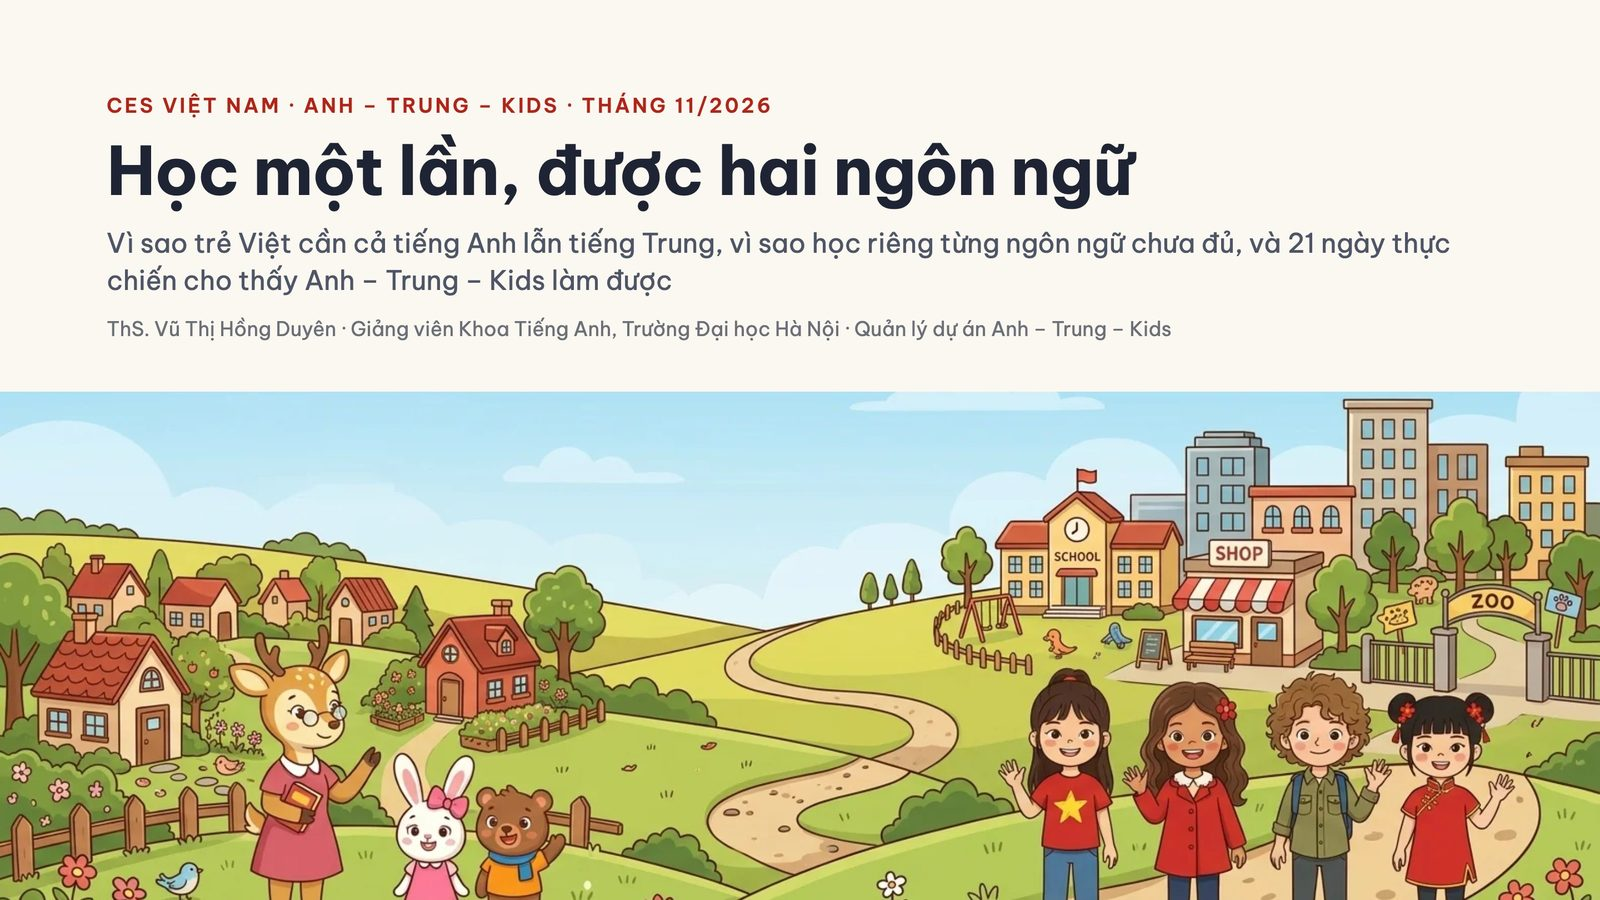
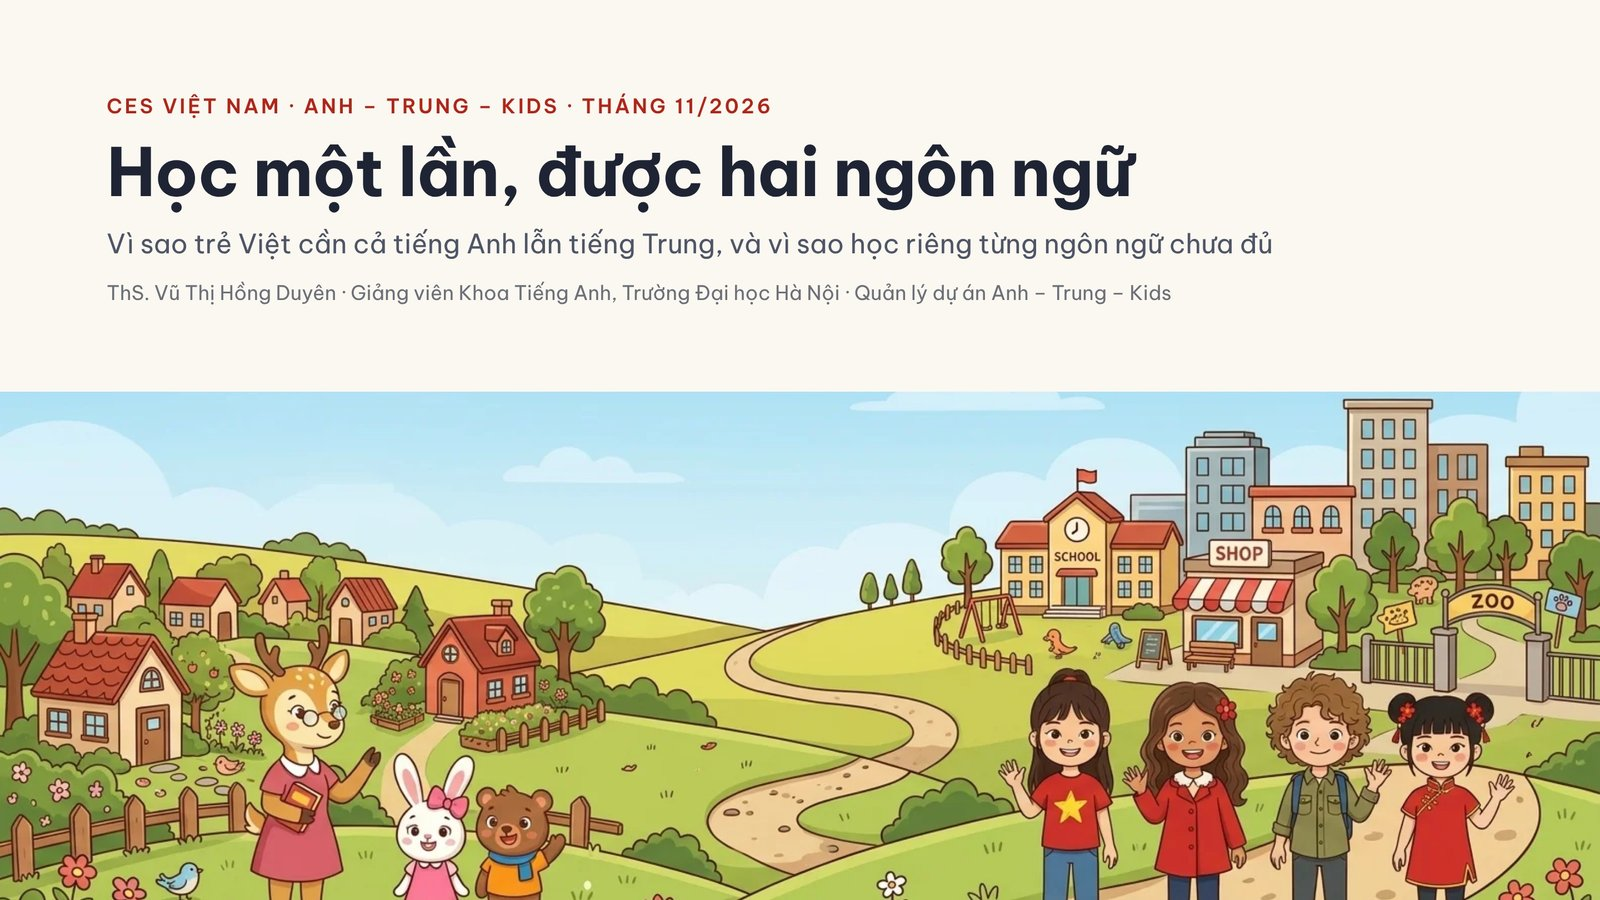
Trình chiếu: bỏ câu quảng cáo ở slide bìa
Claude-Session: https://claude.ai/code/session_018HVPnHq8WSkEhSwULw7xUL

diff --git a/trinh-chieu/tc.js b/trinh-chieu/tc.js
@@ -60,7 +60,7 @@ function tcSequence() {
   return seq;
 }
 function tcPoll(id) { return TC_POLLS.find(p => p.id === id); }
-function tcImg(n) { return 'anh/s' + String(n).padStart(2, '0') + '.jpg'; }
+function tcImg(n) { return 'anh/s' + String(n).padStart(2, '0') + '.jpg?v=2'; }
 function tcRoom() {
   const q = new URLSearchParams(location.search).get('phong');
   return (q || TC_ROOM_DEFAULT).toLowerCase().replace(/[^a-z0-9]/g, '').slice(0, 20) || TC_ROOM_DEFAULT;

diff --git a/trinh-chieu/index.html b/trinh-chieu/index.html
@@ -56,7 +56,7 @@
 <script src="../lop-zoom/vendor/firebase-app-compat.js?v=20261109a"></script>
 <script src="../lop-zoom/vendor/firebase-auth-compat.js?v=20261109a"></script>
 <script src="../lop-zoom/vendor/firebase-database-compat.js?v=20261109a"></script>
-<script src="tc.js?v=1"></script>
+<script src="tc.js?v=2"></script>
 <script>
 (async function () {
   const $ = s => document.querySelector(s);

diff --git a/trinh-chieu/co.html b/trinh-chieu/co.html
@@ -75,7 +75,7 @@
 <script src="../lop-zoom/vendor/firebase-auth-compat.js?v=20261109a"></script>
 <script src="../lop-zoom/vendor/firebase-database-compat.js?v=20261109a"></script>
 <script src="qrcode.js?v=1"></script>
-<script src="tc.js?v=1"></script>
+<script src="tc.js?v=2"></script>
 <script>
 (async function () {
   const $ = s => document.querySelector(s);
